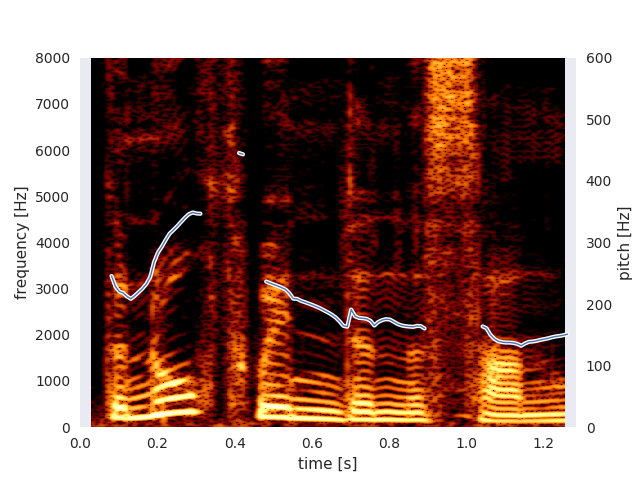
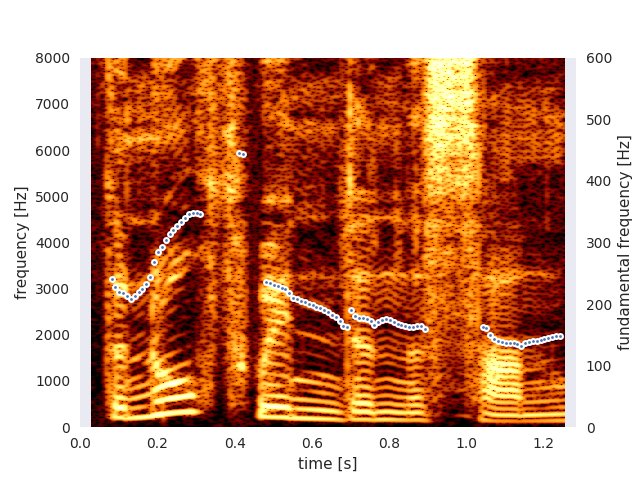
Updating examples in the docs

diff --git a/docs/example_plotting.rst b/docs/example_plotting.rst
@@ -14,12 +14,12 @@ We start out by simply reading in the audio file and plotting the raw waveform:
     import numpy as np
     import matplotlib.pyplot as plt
     import seaborn as sns
-    sns.set() # Use seaborn's default style to make graphs more pretty
+    sns.set() # Use seaborn's default style to make attractive graphs
 
     # Plot nice figures using Python's "standard" matplotlib library
     snd = parselmouth.Sound("the_north_wind_and_the_sun.wav")
     plt.figure()
-    plt.plot(snd.xs(), snd.values)
+    plt.plot(snd.xs(), snd.values.T)
     plt.xlim([snd.xmin, snd.xmax])
     plt.xlabel("time [s]")
     plt.ylabel("amplitude")
@@ -34,7 +34,7 @@ It is also possible to extract part of the speech fragment and plot it separatel
     snd_part = snd.extract_part(from_time=0.9, preserve_times=True)
 
     plt.figure()
-    plt.plot(snd_part.xs(), snd_part.values, linewidth=0.5)
+    plt.plot(snd_part.xs(), snd_part.values.T, linewidth=0.5)
     plt.xlim([snd_part.xmin, snd_part.xmax])
     plt.xlabel("time [s]")
     plt.ylabel("amplitude")
@@ -48,15 +48,15 @@ Next, we can write a couple of ordinary Python functions to plot a Parselmouth `
 
     def draw_spectrogram(spectrogram, dynamic_range=70):
         X, Y = spectrogram.x_grid(), spectrogram.y_grid()
-        sg_db = 10 * np.log10(spectrogram.values.T)
+        sg_db = 10 * np.log10(spectrogram.values)
         plt.pcolormesh(X, Y, sg_db, vmin=sg_db.max() - dynamic_range, cmap='afmhot')
         plt.ylim([spectrogram.ymin, spectrogram.ymax])
         plt.xlabel("time [s]")
         plt.ylabel("frequency [Hz]")
 
     def draw_intensity(intensity):
-        plt.plot(intensity.xs(), intensity.values, linewidth=3, color='w')
-        plt.plot(intensity.xs(), intensity.values, linewidth=1)
+        plt.plot(intensity.xs(), intensity.values.T, linewidth=3, color='w')
+        plt.plot(intensity.xs(), intensity.values.T, linewidth=1)
         plt.grid(False)
         plt.ylim(0)
         plt.ylabel("intensity [dB]")
@@ -83,16 +83,19 @@ The Parselmouth fucntions and methods have the same arguments as the Praat comma
     def draw_pitch(pitch):
         # Extract selected pitch contour, and
         # replace unvoiced samples by NaN to not plot
-        pitch_values = pitch.to_matrix().values
+        pitch_values = pitch.selected_array['frequency']
         pitch_values[pitch_values==0] = np.nan
-        plt.plot(pitch.xs(), pitch_values, linewidth=3, color='w')
-        plt.plot(pitch.xs(), pitch_values, linewidth=1)
+        plt.plot(pitch.xs(), pitch_values, 'o', markersize=5, color='w')
+        plt.plot(pitch.xs(), pitch_values, 'o', markersize=2)
         plt.grid(False)
         plt.ylim(0, pitch.ceiling)
-        plt.ylabel("pitch [Hz]")
+        plt.ylabel("fundamental frequency [Hz]")
 
     pitch = snd.to_pitch()
-    spectrogram = snd.to_spectrogram(window_length=0.03, maximum_frequency=8000)
+    # If desired, pre-emphasize the sound fragment before calculating the spectrogram
+    pre_emphasized_snd = snd.copy()
+    pre_emphasized_snd.pre_emphasize()
+    spectrogram = pre_emphasized_snd.to_spectrogram(window_length=0.03, maximum_frequency=8000)
     plt.figure()
     draw_spectrogram(spectrogram)
     plt.twinx()
@@ -132,4 +135,3 @@ Using the ``FacetGrid`` functionality from *seaborn*, we can even plot plot mult
 
 .. [#nwas_audio] :download:`the_north_wind_and_the_sun.wav <audio/the_north_wind_and_the_sun.wav>`, extracted from a `Wikipedia Commons audio file <https://commons.wikimedia.org/wiki/File:Recording_of_speaker_of_British_English_(Received_Pronunciation).ogg>`_.
 .. [#digits_audio] :download:`digit_list.csv <other/digit_list.csv>`, :download:`1_b.wav <audio/1_b.wav>`, :download:`2_b.wav <audio/2_b.wav>`, :download:`3_b.wav <audio/3_b.wav>`, :download:`4_b.wav <audio/4_b.wav>`, :download:`5_b.wav <audio/5_b.wav>`, :download:`1_y.wav <audio/1_y.wav>`, :download:`2_y.wav <audio/2_y.wav>`, :download:`3_y.wav <audio/3_y.wav>`, :download:`4_y.wav <audio/4_y.wav>`, :download:`5_y.wav <audio/5_y.wav>`
-

diff --git a/docs/example_batch_processing.rst b/docs/example_batch_processing.rst
@@ -12,7 +12,7 @@ Using the Python standard libraries, we can also quickly code up batch operation
 
     for wave_file in glob.glob('/home/yannick/*.wav'):
         s = parselmouth.Sound(wave_file)
-        s_pre = s.pre_emphasize()
+        s.pre_emphasize()
         s.save(os.path.splitext(wave_file)[0] + '_pre.wav', "WAV") # or parselmouth.SoundFileFormat.WAV instead of "WAV"
         s.save(os.path.splitext(wave_file)[0] + '_pre.aiff', "AIFF")
 
@@ -29,7 +29,7 @@ condition ... pp_id
 0         ... 3126
 ========= === =====
 
-The following code would read and this table, loop over it, use Praat through Parselmouth to calculate the analysis of each row, and then write an augmented CSV file to disk:
+The following code would read this table, loop over it, use Praat through Parselmouth to calculate the analysis of each row, and then write an augmented CSV file to disk (with an example set of sound fragments [#digits_audio]_):
 
 .. code:: Python
 
@@ -37,18 +37,19 @@ The following code would read and this table, loop over it, use Praat through Pa
     import pandas as pd
 
     def analyse_sound(row):
-	    condition, pp_id = row[['condition', 'pp_id']].values
-	    filepath = 'audio/{}/{}.wav'.format(condition, pp_id)
-	    sound = parselmouth.Sound(filepath)
-	    harmonicity = sound.to_harmonicity()
-	    return harmonicity.values.mean()
+        condition, pp_id = row['condition'], row['pp_id']
+        filepath = '{}_{}.wav'.format(condition, pp_id)
+        sound = parselmouth.Sound(filepath)
+        harmonicity = sound.to_harmonicity()
+        return harmonicity.values[harmonicity.values != -200].mean()
 
     # Read in the experimental results file
     dataframe = pd.read_csv('results.csv')
 
     # Apply parselmouth wrapper function row-wise
-    dataframe['harmonics_to_noise'] = dataframe.apply(analyse_sound, axis='rows') 
+    dataframe['harmonics_to_noise'] = dataframe.apply(analyse_sound, axis='columns')
 
     # Write out the updated dataframe
-    dataframe.to_csv('processed_results.csv')
+    dataframe.to_csv('processed_results.csv', index=False)
 
+.. [#digits_audio] :download:`results.csv <other/results.csv>`, :download:`1_b.wav <audio/1_b.wav>`, :download:`2_b.wav <audio/2_b.wav>`, :download:`3_b.wav <audio/3_b.wav>`, :download:`4_b.wav <audio/4_b.wav>`, :download:`5_b.wav <audio/5_b.wav>`, :download:`1_y.wav <audio/1_y.wav>`, :download:`2_y.wav <audio/2_y.wav>`, :download:`3_y.wav <audio/3_y.wav>`, :download:`4_y.wav <audio/4_y.wav>`, :download:`5_y.wav <audio/5_y.wav>`

diff --git a/docs/example_psychopy_experiments.rst b/docs/example_psychopy_experiments.rst
@@ -30,13 +30,10 @@ These are the code fragments that are inserted into the experiment with a ``Code
     random_condition = random.choice(conditions)
     random_stimulus = stimuli[random_condition]
 
-    noise_samples = np.random.normal(size=random_stimulus.num_samples)
-    noise = parselmouth.Sound(noise_samples, random_stimulus.sampling_frequency)
-    noise.scale_intensity(STANDARD_INTENSITY - level)
-
-    noisy_stimulus = random_stimulus.copy()
-    noisy_stimulus_values = noisy_stimulus.values
-    noisy_stimulus_values += noise.values
+    noise_samples = np.random.normal(size=random_stimulus.n_samples)
+    noisy_stimulus = parselmouth.Sound(noise_samples, sampling_frequency=random_stimulus.sampling_frequency)
+    noisy_stimulus.scale_intensity(STANDARD_INTENSITY - level)
+    noisy_stimulus.values += random_stimulus.values
     noisy_stimulus.scale_intensity(STANDARD_INTENSITY)
 
     # 'filename' variable is set by PsychoPy and contains base file name
